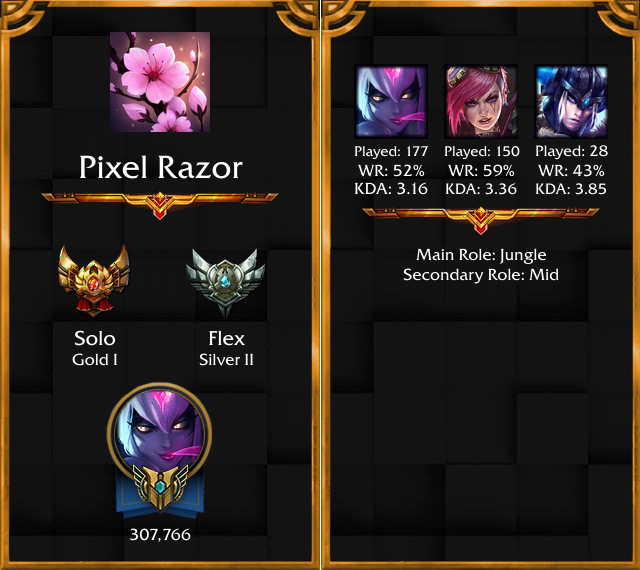
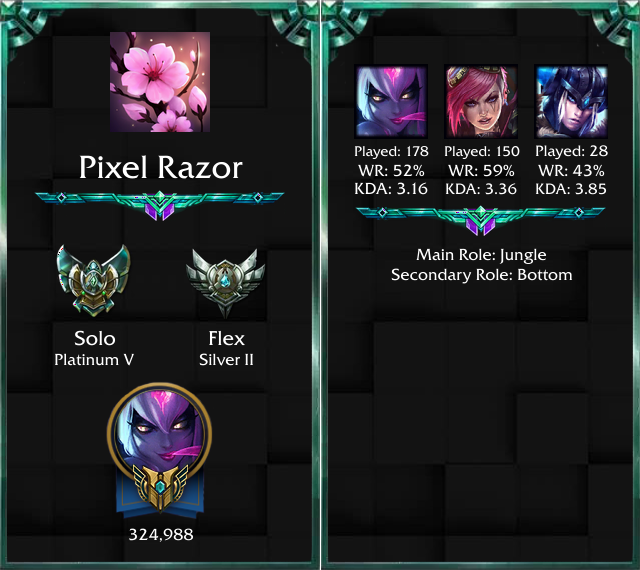
Small update
Added past ranks for players and updated the data dragon version (that will be done automatically in the future). I also hit plat in solo queue so i had to update the example playercard :^)

diff --git a/riot.go b/riot.go
@@ -68,6 +68,23 @@ type leagueMatchList struct {
 type leagueMatchReference struct {
 	Lane     string `json:"lane"`
 	Champion int    `json:"champion"`
+	ID       int    `json:"gameId"`
+}
+type riotMatchDto struct {
+	SeasonID       int                          `json:"seasonId"`
+	ParticipantIDs []riotParticipantIdentityDto `json:"participantIdentities"`
+	Participants   []riotParticipantDto         `json:"participants"`
+}
+type riotParticipantIdentityDto struct {
+	Player riotPlayerDto `json:"player"`
+	ID     int           `json:"participantId"`
+}
+type riotPlayerDto struct {
+	AccountID int `json:"currentAccountID"`
+}
+type riotParticipantDto struct {
+	Tier string `json:"highestAchievedSeasonTier"`
+	ID   int    `json:"participantId"`
 }
 type leaguesResult []summonerLeagues
 type masteryResult []champMastery
@@ -87,6 +104,15 @@ var riotRegions = map[string]string{
 	"oce":  "oc1",
 	"tr":   "tr1",
 	"ru":   "ru",
+}
+var riotRanks = map[string]int{
+	"BRONZE":     1,
+	"SILVER":     2,
+	"GOLD":       3,
+	"PLATINUM":   4,
+	"DIAMOND":    5,
+	"MASTER":     6,
+	"CHALLENGER": 7,
 }
 
 func summonerCardFront() cardTemplate {
@@ -285,6 +311,59 @@ func riotPlayerInfo(name, region string) (summonerInfo, leaguesResult, leagueMat
 	return sinfo, *sleagues, matchesResult
 }
 
+// Attempt to get a Player's Solo rank
+func riotPastRanks(c *freetype.Context, ID, accountID int, region string) cardTemplate {
+	var ranks cardTemplate
+	ranks.images = make(map[string]imageData)
+	ranks.text = make(map[string]textData)
+	var seasonRanks []string
+	var seasons []int
+	for k, v := range map[int]int{9: 420, 7: 410, 5: 4} {
+		var matchesResult leagueMatchList
+		data := getURL(fmt.Sprintf("https://%s.api.riotgames.com/lol/match/v3/matchlists/by-account/%v?queue=%v&season=%v&api_key=%s", region, accountID, v, k, riotKey))
+		if err := json.Unmarshal(data, &matchesResult); err != nil {
+			fmt.Println("Error getting past ranks:", err)
+			return ranks
+		}
+		if len(matchesResult.Matches) > 0 {
+			var match riotMatchDto
+			data = getURL(fmt.Sprintf("https://%s.api.riotgames.com/lol/match/v3/matches/%v?api_key=%s", region, matchesResult.Matches[0].ID, riotKey))
+			if err := json.Unmarshal(data, &match); err != nil {
+				fmt.Println("Error getting past ranks:", err)
+				return ranks
+			}
+			for _, j := range match.ParticipantIDs {
+				if j.Player.AccountID == accountID {
+					for _, k := range match.Participants {
+						if k.ID == j.ID && k.Tier != "UNRANKED" {
+							seasonRanks = append(seasonRanks, k.Tier)
+							seasons = append(seasons, match.SeasonID)
+						}
+					}
+				}
+			}
+		}
+	}
+	var ranksImages []imageData
+	if len(seasonRanks) > 3 {
+		ranksImages = mostChampsTemplates(3)
+	} else if len(seasonRanks) > 0 {
+		ranksImages = mostChampsTemplates(len(seasonRanks))
+	}
+	for i, v := range seasonRanks {
+		var text textData
+		ranksImages[i].area = image.Rect(ranksImages[i].area.Min.X, 350, ranksImages[i].area.Max.X, 425)
+		ranksImages[i].image = resize.Resize(75, 0, loadImage(fmt.Sprintf("league/rank/%s_I.png", v)), resize.Lanczos3)
+		ranks.images[fmt.Sprintf("%v%s", seasons[i], v)] = ranksImages[i]
+		text.fontSize = 12
+		text.text = fmt.Sprintf("Season %v", seasons[i]/2+2)
+		text.point = image.Pt((ranksImages[i].area.Min.X+ranksImages[i].area.Max.X)/2-textWidth(c, text.text, text.fontSize)/2, 435)
+		ranks.text[fmt.Sprintf("%v%s", seasons[i], v)] = text
+	}
+	return ranks
+}
+
+// Create and return a playercard
 func riotPlayerCard(playername, region string) *image.RGBA {
 	// Gather palyer data
 	sinfo, sleagues, smatches := riotPlayerInfo(playername, region)
@@ -297,8 +376,10 @@ func riotPlayerCard(playername, region string) *image.RGBA {
 	}
 	var soloInfo, flexInfo summonerLeagues
 	for _, v := range sleagues {
-		if v.QueueType == "RANKED_FLEX_SR" {
-			flexInfo = v
+		if v.QueueType == "RANKED_FLEX_SR" || v.QueueType == "RANKED_FLEX_TT" {
+			if riotRanks[v.Tier] > riotRanks[flexInfo.Tier] {
+				flexInfo = v
+			}
 		} else if v.QueueType == "RANKED_SOLO_5x5" {
 			soloInfo = v
 		}
@@ -404,16 +485,16 @@ func riotPlayerCard(playername, region string) *image.RGBA {
 	cardFront.images["border"] = imageInfo
 	cardBack.images["border"] = imageInfo
 	imageInfo = cardFront.images["profileIcon"]
-	imageInfo.image = resize.Resize(100, 0, loadImage(fmt.Sprintf("http://ddragon.leagueoflegends.com/cdn/7.24.2/img/profileicon/%v.png", sinfo.IconID)), resize.Lanczos3)
+	imageInfo.image = resize.Resize(100, 0, loadImage(fmt.Sprintf("http://ddragon.leagueoflegends.com/cdn/8.1.1/img/profileicon/%v.png", sinfo.IconID)), resize.Lanczos3)
 	cardFront.images["profileIcon"] = imageInfo
 	imageInfo = cardFront.images["insignia"]
 	imageInfo.image = resize.Resize(256, 0, loadImage(fmt.Sprintf("league/insignia/%sinsignia.png", strings.ToLower(soloInfo.Tier))), resize.Lanczos3)
 	cardFront.images["insignia"] = imageInfo
 	imageInfo = cardFront.images["solo"]
-	imageInfo.image = resize.Resize(100, 0, loadImage(fmt.Sprintf("league/rank/%s_%s.png", strings.ToLower(soloInfo.Tier), soloInfo.Rank)), resize.Lanczos3)
+	imageInfo.image = resize.Resize(100, 0, loadImage(fmt.Sprintf("league/rank/%s_%s.png", soloInfo.Tier, soloInfo.Rank)), resize.Lanczos3)
 	cardFront.images["solo"] = imageInfo
 	imageInfo = cardFront.images["flex"]
-	imageInfo.image = resize.Resize(100, 0, loadImage(fmt.Sprintf("league/rank/%s_%s.png", strings.ToLower(flexInfo.Tier), flexInfo.Rank)), resize.Lanczos3)
+	imageInfo.image = resize.Resize(100, 0, loadImage(fmt.Sprintf("league/rank/%s_%s.png", flexInfo.Tier, flexInfo.Rank)), resize.Lanczos3)
 	cardFront.images["flex"] = imageInfo
 	if soloInfo.Tier == "" {
 		soloInfo.Tier = "Unranked"
@@ -427,7 +508,7 @@ func riotPlayerCard(playername, region string) *image.RGBA {
 		cardFront.images["masteryBorder"] = imageInfo
 
 		imageInfo = cardFront.images["masteryChamp"]
-		imageInfo.image = resize.Resize(93, 0, loadImage(fmt.Sprintf("http://ddragon.leagueoflegends.com/cdn/7.24.2/img/champion/%s.png", riotChamps[schamps[0].ID])), resize.Lanczos3)
+		imageInfo.image = resize.Resize(93, 0, loadImage(fmt.Sprintf("http://ddragon.leagueoflegends.com/cdn/8.1.1/img/champion/%s.png", riotChamps[schamps[0].ID])), resize.Lanczos3)
 		imageInfo.mask = loadImage("league/champmask.png")
 		cardFront.images["masteryChamp"] = imageInfo
 		draw.DrawMask(front, cardFront.images["masteryChamp"].area, cardFront.images["masteryChamp"].image, image.ZP, cardFront.images["masteryChamp"].mask, image.ZP, draw.Over)
@@ -450,6 +531,12 @@ func riotPlayerCard(playername, region string) *image.RGBA {
 	textData.text = fmt.Sprintf("%s %s", titlefy(soloInfo.Tier), soloInfo.Rank)
 	textData.point.X -= textWidth(c, textData.text, textData.fontSize) / 2
 	cardFront.text["soloRank"] = textData
+	if flexInfo.QueueType == "RANKED_FLEX_TT" {
+		textData = cardFront.text["Flex"]
+		textData.text = "Flex 3v3"
+		textData.point.X = 226 - textWidth(c, textData.text, textData.fontSize)/2
+		cardFront.text["Flex"] = textData
+	}
 	textData = cardFront.text["flexRank"]
 	textData.text = fmt.Sprintf("%s %s", titlefy(flexInfo.Tier), flexInfo.Rank)
 	textData.point.X -= textWidth(c, textData.text, textData.fontSize) / 2
@@ -474,6 +561,8 @@ func riotPlayerCard(playername, region string) *image.RGBA {
 	imageInfo = cardBack.images["insignia"]
 	imageInfo.image = cardFront.images["insignia"].image
 	cardBack.images["insignia"] = imageInfo
+	imageInfo.area = image.Rect(imageInfo.area.Min.X, 290, imageInfo.area.Max.X, 325)
+	cardBack.images["insignia2"] = imageInfo
 	textData = cardBack.text["mainRole"]
 	textData.text += mainRoles[0]
 	textData.point.X -= textWidth(c, textData.text, textData.fontSize) / 2
@@ -540,7 +629,7 @@ func riotPlayerCard(playername, region string) *image.RGBA {
 			images = mostChampsTemplates(len(mainChamps))
 		}
 		for i := range images {
-			images[i].image = resize.Resize(75, 0, loadImage(fmt.Sprintf("http://ddragon.leagueoflegends.com/cdn/7.24.2/img/champion/%s.png", riotChamps[mainChamps[i]])), resize.Lanczos3)
+			images[i].image = resize.Resize(75, 0, loadImage(fmt.Sprintf("http://ddragon.leagueoflegends.com/cdn/8.1.1/img/champion/%s.png", riotChamps[mainChamps[i]])), resize.Lanczos3)
 		}
 		i := 0
 		for k, v := range images {
@@ -559,7 +648,19 @@ func riotPlayerCard(playername, region string) *image.RGBA {
 			i++
 		}
 	}
-
+	oldRanks := riotPastRanks(c, sinfo.ID, sinfo.AccountID, region)
+	if len(oldRanks.images) > 0 {
+		textData.text = "Previous ranks"
+		textData.fontSize = 20
+		textData.point = image.Pt(160-textWidth(c, textData.text, textData.fontSize)/2, 348)
+		cardBack.text["previous"] = textData
+	}
+	for k, v := range oldRanks.images {
+		cardBack.images[k] = v
+	}
+	for k, v := range oldRanks.text {
+		cardBack.text[k] = v
+	}
 	for _, v := range cardBack.images {
 		draw.Draw(back, v.area, v.image, image.ZP, draw.Over)
 	}
